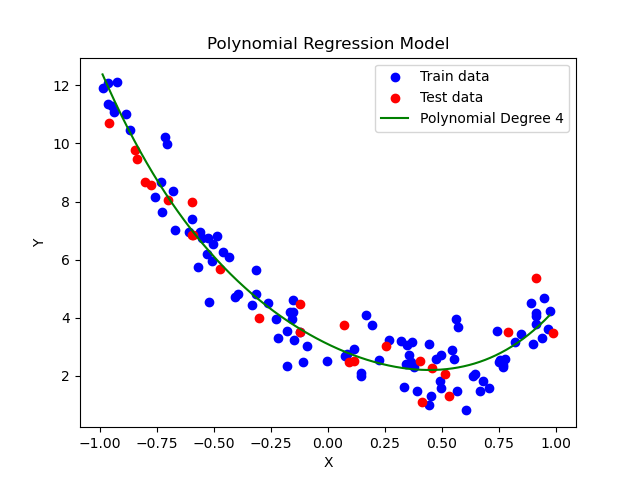
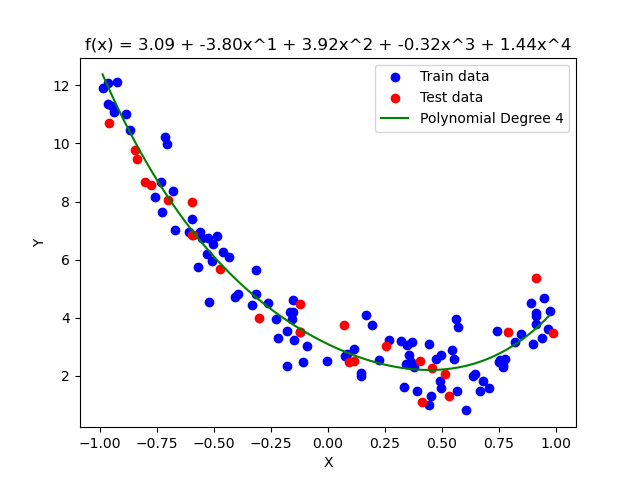
5/20

diff --git a/作业一/work1.py b/作业一/work1.py
@@ -53,17 +53,6 @@ x_range = np.linspace(x_train.min(), x_train.max(), 500).reshape(-1, 1)
 x_range_poly = poly_features.transform(x_range)
 y_range_pred = model.predict(x_range_poly)
 
-
-#绘图
-plt.plot(x_range, y_range_pred, color='green', label=f'Polynomial Degree {degree}')
-plt.title('Polynomial Regression Model')
-plt.xlabel('X')
-plt.ylabel('Y')
-plt.legend()
-plt.savefig("作业一/png_homework.png")
-plt.show()
-
-
 # 输出多项式表达式（仅包含非零系数的项）
 coefficients = model.coef_[0]
 intercept = model.intercept_[0]
@@ -75,6 +64,17 @@ for i in range(1, degree + 1):
         poly_expression += f" + {coefficients[i]:.2f}x^{i}"
 
 print("多项式回归模型表达式：", poly_expression)
+
+
+#绘图
+plt.plot(x_range, y_range_pred, color='green', label=f'Polynomial Degree {degree}')
+plt.title(poly_expression)
+plt.xlabel('X')
+plt.ylabel('Y')
+plt.legend()
+plt.savefig("作业一/png_homework.png")
+plt.show()
+
 
 #作业提交部分
 new_test_prediction=model.predict(new_x_test_poly)
